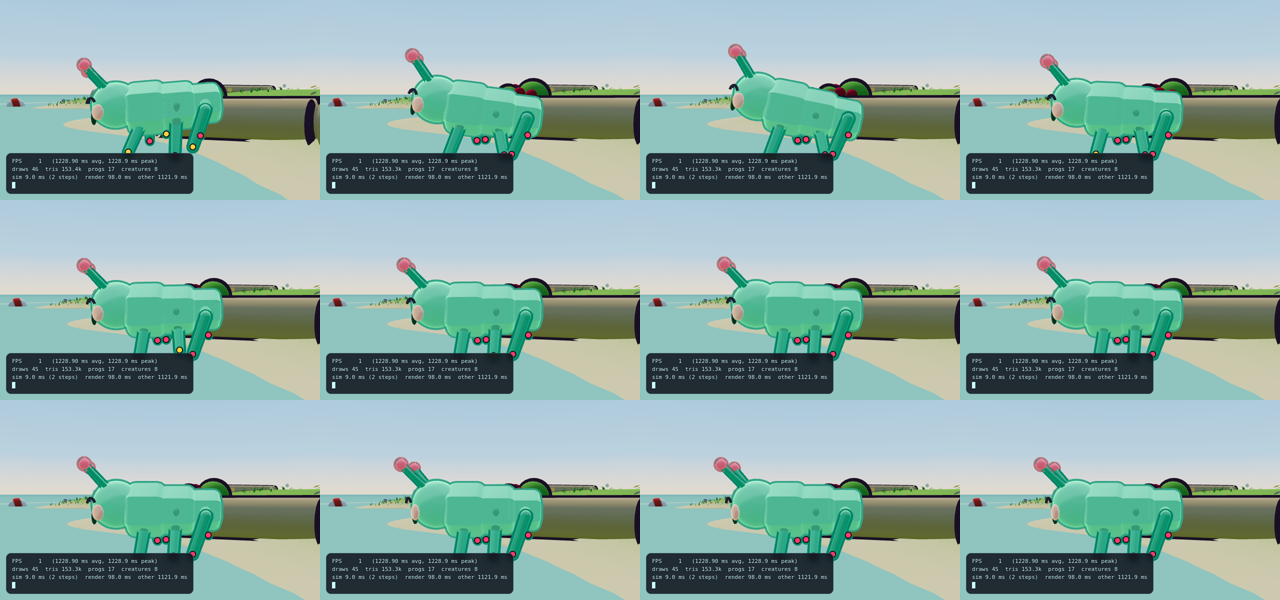
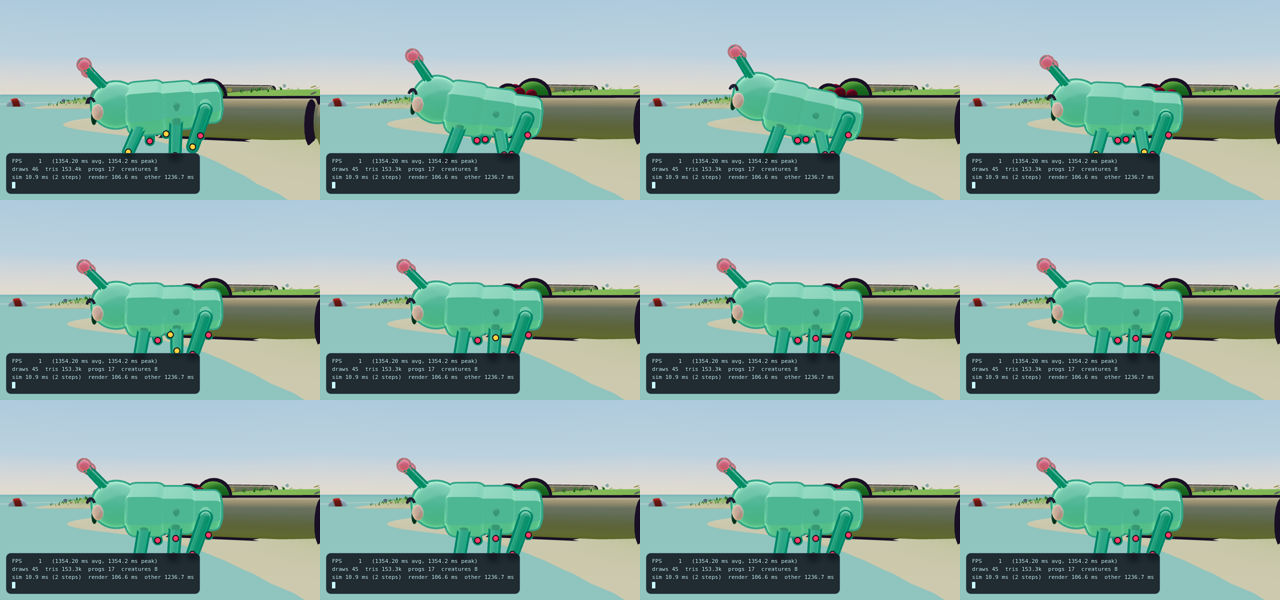
watch: 2026-10-02 13:51:30

diff --git a/watch/REPORT.md b/watch/REPORT.md
@@ -1,75 +1,83 @@
 ```
 # WATCH REPORT
-date 2026-10-02T09:41:10.277Z
-badge build v16 · 2026-10-02 13:40
+date 2026-10-02T09:50:16.304Z
+badge build v17 · 2026-10-02 13:49
 
 ## PEDESTAL
   quat 8.88e-16 pos 0.00e+0 -> PASS
 
 ## STRAIGHT WALK PROBE (8 s each)
-  PIP    slip 1.30 cm | overstretch 3/480 | speed 0.873 | freq 3 Hz
-  MOCHI  slip 9.75 cm | overstretch 37/480 | speed 0.875 | freq 3 Hz
+  PIP    slip 1.36 cm | overstretch 7/480 | speed 0.873 | freq 3 Hz
+  MOCHI  slip 8.84 cm | overstretch 24/480 | speed 0.875 | freq 3 Hz
   BOP    slip 0.00 cm | overstretch 0/480 | speed 2.763 | freq 2.5 Hz
-  ZIK    slip 0.19 cm | overstretch 1/480 | speed 1.128 | freq 3 Hz
+  ZIK    slip 0.23 cm | overstretch 0/480 | speed 1.128 | freq 3 Hz
 
 ## JOINT PROBE (20 s)
-  PIP    40.00 rad/s on knee_r [FORCED STEP]
+  PIP    40.00 rad/s on hip_r [FORCED STEP]
   MOCHI  40.00 rad/s on knee_bl [FORCED STEP]
-  ZIK    40.00 rad/s on knee_front_l [FORCED STEP]
+  ZIK    40.00 rad/s on knee_mid_l [FORCED STEP]
 
 ## FREE-RUNNING WORLD (30 s, all creatures, real behaviour)
   creatures 8 | overlap frames 0/900 | closest pair 1.08x personal space
-  PIP    lifts: beat 155 reach 13 strain 65 catch-up 15 | max planted IK miss 16.35 cm | crouch 6.1 cm
-  MOCHI  lifts: beat 49 reach 53 strain 68 catch-up 103 | max planted IK miss 7.49 cm | crouch 1.6 cm
+  PIP    lifts: beat 155 reach 17 strain 64 catch-up 12 | max planted IK miss 14.48 cm | crouch 6.5 cm
+  MOCHI  lifts: beat 68 reach 49 strain 70 catch-up 98 | max planted IK miss 9.25 cm | crouch 2.6 cm
   BOP    lifts: beat 0 reach 0 strain 0 catch-up 0 | max planted IK miss 0.00 cm | crouch 0.0 cm
-  ZIK    lifts: beat 323 reach 32 strain 32 catch-up 58 | max planted IK miss 1.88 cm | crouch 1.9 cm
+  ZIK    lifts: beat 324 reach 30 strain 39 catch-up 56 | max planted IK miss 2.39 cm | crouch 2.0 cm
 
 ## SLIP FORENSICS (stances that slid > 1 cm)
-  PIP    n 62 | in action 100% | one-frame pop 100% | ended by forced lift 100% | max hip-foot/reach 0.99 | max IK miss 16.3 cm | max post-limiter miss 16.3 cm
-  MOCHI  n 55 | in action 100% | one-frame pop 98% | ended by forced lift 100% | max hip-foot/reach 0.93 | max IK miss 7.5 cm | max post-limiter miss 7.5 cm
-  ZIK    n 8 | in action 100% | one-frame pop 100% | ended by forced lift 100% | max hip-foot/reach 0.92 | max IK miss 1.5 cm | max post-limiter miss 1.5 cm
-    PIP leg 0: slip 15.9 jump 15.9 cm | reach 0.99 | IK 16.3 post 16.3 cm | ACTION | forced
-    PIP leg 0: slip 11.7 jump 11.4 cm | reach 0.81 | IK 11.7 post 11.7 cm | ACTION | forced
-    PIP leg 0: slip 9.5 jump 9.5 cm | reach 0.91 | IK 9.7 post 9.7 cm | ACTION | forced
-    PIP leg 1: slip 9.4 jump 9.4 cm | reach 0.92 | IK 9.7 post 9.7 cm | ACTION | forced
-    PIP leg 0: slip 9.0 jump 9.5 cm | reach 0.93 | IK 12.3 post 9.3 cm | ACTION | forced
-    MOCHI leg 2: slip 6.8 jump 6.8 cm | reach 0.76 | IK 7.5 post 7.5 cm | ACTION | forced
-    MOCHI leg 0: slip 6.6 jump 6.4 cm | reach 0.77 | IK 6.8 post 6.8 cm | ACTION | forced
-    PIP leg 0: slip 6.5 jump 6.5 cm | reach 0.96 | IK 6.5 post 6.5 cm | ACTION | forced
-  PIP    LEG joint max 40.0 rad/s on knee_l(plant) | leg frames >20: 41
-  MOCHI  LEG joint max 38.6 rad/s on knee_br(plant) | leg frames >20: 34
-  ZIK    LEG joint max 39.8 rad/s on knee_rear_r(plant) | leg frames >20: 14
-  PIP    stances 267 | slip avg 0.84 cm worst 15.94 cm | stances >1cm 62 | max joint 91.2 rad/s on body | frames >20 rad/s 31 | moving 26%
-  MOCHI  stances 342 | slip avg 0.45 cm worst 6.77 cm | stances >1cm 55 | max joint 48.9 rad/s on body | frames >20 rad/s 24 | moving 31%
+  PIP    n 56 | in action 100% | one-frame pop 100% | ended by forced lift 100% | max hip-foot/reach 1.00 | max IK miss 14.5 cm | max post-limiter miss 14.5 cm
+  MOCHI  n 53 | in action 100% | one-frame pop 96% | ended by forced lift 100% | max hip-foot/reach 0.96 | max IK miss 9.3 cm | max post-limiter miss 9.3 cm
+  ZIK    n 8 | in action 100% | one-frame pop 88% | ended by forced lift 100% | max hip-foot/reach 0.94 | max IK miss 1.8 cm | max post-limiter miss 1.8 cm
+    PIP leg 0: slip 14.3 jump 14.3 cm | reach 1.00 | IK 14.5 post 14.5 cm | ACTION | forced
+    PIP leg 1: slip 12.1 jump 12.1 cm | reach 0.93 | IK 12.5 post 12.5 cm | ACTION | forced
+    PIP leg 0: slip 11.8 jump 11.8 cm | reach 0.86 | IK 12.2 post 12.2 cm | ACTION | forced
+    MOCHI leg 0: slip 8.9 jump 8.9 cm | reach 0.95 | IK 9.3 post 9.3 cm | ACTION | forced
+    PIP leg 1: slip 8.8 jump 8.8 cm | reach 0.90 | IK 8.8 post 8.8 cm | ACTION | forced
+    PIP leg 1: slip 8.0 jump 8.0 cm | reach 0.90 | IK 8.1 post 8.1 cm | ACTION | forced
+    MOCHI leg 3: slip 7.3 jump 7.3 cm | reach 0.76 | IK 7.8 post 7.8 cm | ACTION | forced
+    PIP leg 0: slip 5.8 jump 5.8 cm | reach 0.83 | IK 7.6 post 7.6 cm | ACTION | forced
+  PIP    LEG joint max 36.1 rad/s on knee_l(plant) | leg frames >20: 40
+  MOCHI  LEG joint max 36.2 rad/s on knee_br(plant) | leg frames >20: 50
+  ZIK    LEG joint max 29.1 rad/s on knee_front_l(plant) | leg frames >20: 11
+  PIP    BODY snap max 91.1 rad/s during action 'sleep'
+  MOCHI  BODY snap max 48.9 rad/s during action 'sleep'
+  BOP    BODY snap max 28.0 rad/s during action 'none'
+  ZIK    BODY snap max 14.0 rad/s during action 'eat'
+  PIP    stances 266 | slip avg 0.71 cm worst 14.28 cm | stances >1cm 56 | max joint 91.1 rad/s on body | frames >20 rad/s 37 | moving 27%
+  MOCHI  stances 347 | slip avg 0.46 cm worst 8.85 cm | stances >1cm 53 | max joint 48.9 rad/s on body | frames >20 rad/s 34 | moving 32%
   BOP    stances 0 | slip avg 0.00 cm worst 0.00 cm | stances >1cm 0 | max joint 28.0 rad/s on body | frames >20 rad/s 1 | moving 26%
-  ZIK    stances 487 | slip avg 0.12 cm worst 1.41 cm | stances >1cm 8 | max joint 39.8 rad/s on knee_rear_r | frames >20 rad/s 10 | moving 7%
+  ZIK    stances 492 | slip avg 0.12 cm worst 1.79 cm | stances >1cm 8 | max joint 29.1 rad/s on knee_front_l | frames >20 rad/s 7 | moving 7%
 
 ## VERDICT
-  PIP    feet SLIDE (worst 15.9 cm, 23% of steps) | knees SNAP (91 rad/s)
-  MOCHI  feet SLIDE (worst 6.8 cm, 16% of steps) | knees SNAP (49 rad/s)
+  PIP    feet SLIDE (worst 14.3 cm, 21% of steps) | knees SNAP (91 rad/s)
+  MOCHI  feet SLIDE (worst 8.9 cm, 15% of steps) | knees SNAP (49 rad/s)
   BOP    feet no steps seen | knees SNAP (28 rad/s)
-  ZIK    feet SLIDE (worst 1.4 cm, 2% of steps) | knees SNAP (40 rad/s)
+  ZIK    feet SLIDE (worst 1.8 cm, 2% of steps) | knees SNAP (40 rad/s)
   overlap NONE
   console errors 0
 
 ## SAVE / LOAD
-  creatures 8 | save 4738 bytes | reload identical false
+  creatures 8 | save 4736 bytes | reload identical true
 
 ## SIM COST (CPU only, no render)
-  8 creatures 4.68 ms/step | 24 creatures 13.29 ms/step | 0.554 ms per creature
+  8 creatures 4.41 ms/step | 24 creatures 14.06 ms/step | 0.586 ms per creature
+  breakdown @24: brain 1.20 | motion+anim 6.01 | leg solve 6.16 | other 0.69 ms/step
 
 ## GATES
-  FAIL  PIP worst slip <= 2 cm         15.94 cm
-  FAIL  PIP steps >1 cm <= 2%          23.2%
-  FAIL  PIP leg joint <= 20 rad/s      40.0 on knee_l(plant)
-  FAIL  MOCHI worst slip <= 2 cm       6.77 cm
-  FAIL  MOCHI steps >1 cm <= 2%        16.1%
-  FAIL  MOCHI leg joint <= 20 rad/s    38.6 on knee_br(plant)
-  PASS  ZIK worst slip <= 2 cm         1.41 cm
-  PASS  ZIK steps >1 cm <= 2%          1.6%
-  FAIL  ZIK leg joint <= 20 rad/s      39.8 on knee_rear_r(plant)
+  PASS  PIP WALK worst slip <= 2 cm    0.15 cm (175 walk steps)
+  PASS  PIP WALK steps >1 cm <= 2%     0.0%
+  FAIL  PIP WALK leg joint <= 20 rad/s 36.1 on knee_l(plant)
+  WARN  PIP in actions                 worst 14.3 cm | 21.1% steps | leg joint 36.1 | body 91 rad/s 'sleep'
+  PASS  MOCHI WALK worst slip <= 2 cm  0.15 cm (125 walk steps)
+  PASS  MOCHI WALK steps >1 cm <= 2%   0.0%
+  FAIL  MOCHI WALK leg joint <= 20 rad/s 36.2 on knee_br(plant)
+  WARN  MOCHI in actions               worst 8.9 cm | 15.3% steps | leg joint 36.2 | body 49 rad/s 'sleep'
+  PASS  ZIK WALK worst slip <= 2 cm    0.15 cm (351 walk steps)
+  PASS  ZIK WALK steps >1 cm <= 2%     0.0%
+  FAIL  ZIK WALK leg joint <= 20 rad/s 25.3 on knee_rear_r(plant)
+  WARN  ZIK in actions                 worst 1.8 cm | 1.6% steps | leg joint 29.1 | body 14 rad/s 'eat'
   PASS  overlap frames = 0             0
   PASS  console errors = 0             0
-  FAIL  save/load identical            no
-  FAIL  sim 24 creatures <= 8 ms/step  13.29 ms
+  PASS  save/load identical            yes
+  PASS  sim cost scales linearly       3.18x for 3x creatures
 ```
